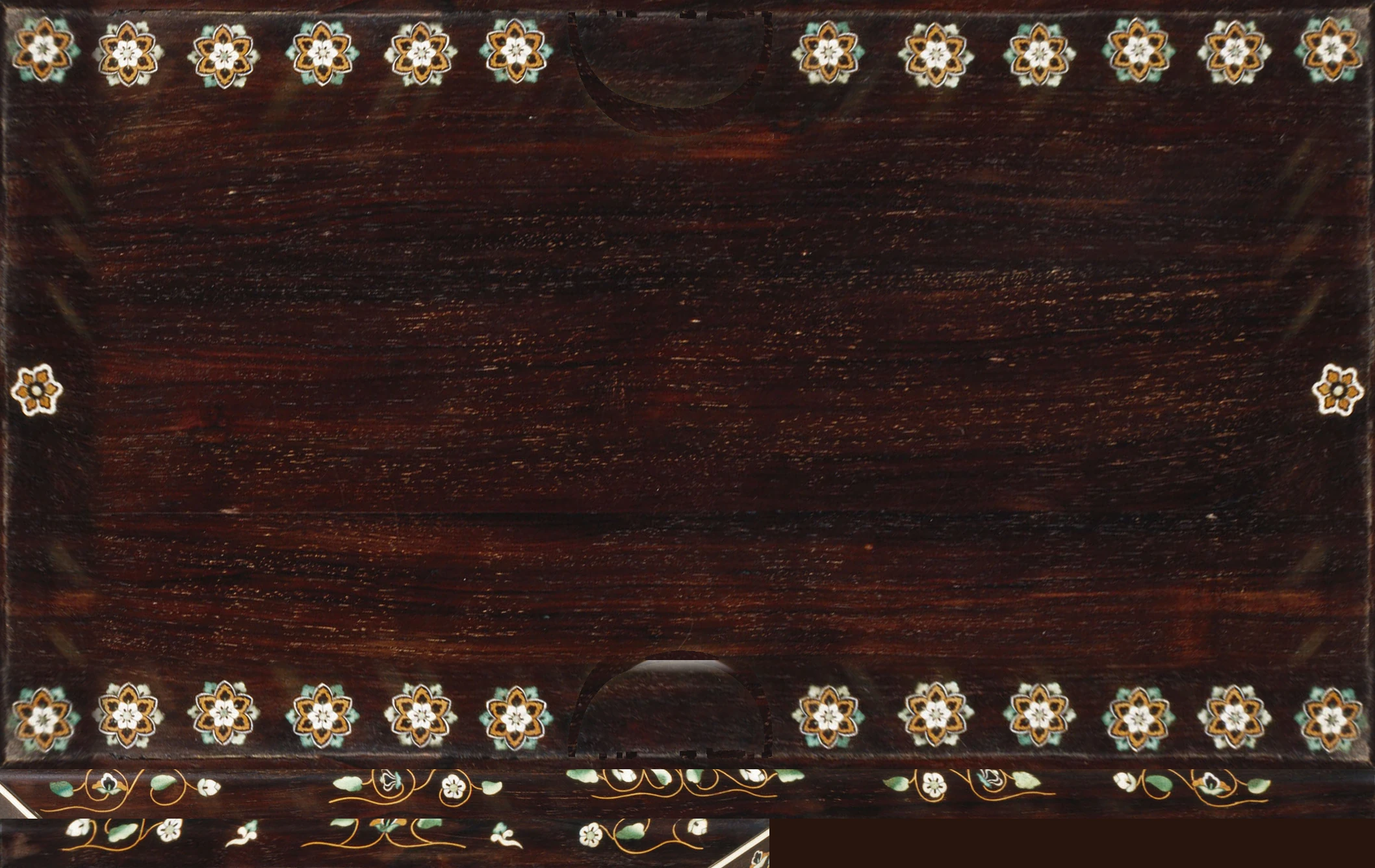
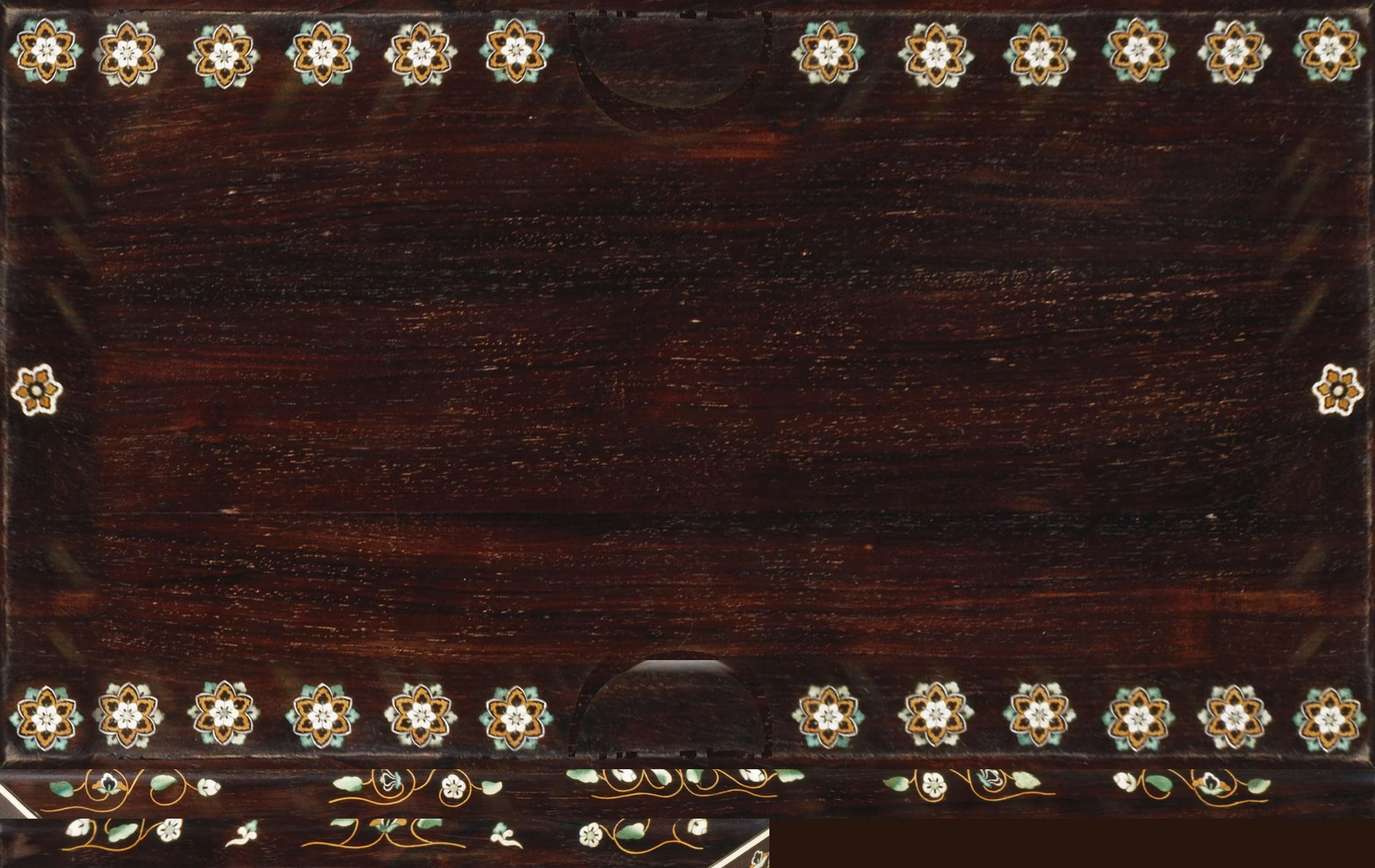
博物館：双六局の盤面の四隅の花の歪みを直す
写真を正面に直した際に歪んでぼけていた四隅の花を、同じ列の同じ種類の花で置き換え（位置は元のまま）。

Claude-Session: https://claude.ai/code/session_019p8B6V1SGvFhMnDpobjUww

diff --git a/atlas/museum/ex/sugoroku.js b/atlas/museum/ex/sugoroku.js
@@ -20,6 +20,9 @@
          the opposite sides carry the same pictures;
        sugoroku-top.webp — the field (52.9 × 29.6 cm) above the inner faces of the far long wall and the far short wall; the strip of
          the field hidden behind the near walls is the far strip mirrored, and the half-moons (raised pieces here) are taken out.
+         2026-11-23: the four corner flowers came out of the straightening sheared and blurred (they lie under the walls' shadow, at the
+         photograph's steepest angle); each is replaced by a clean flower of the same kind from the same row (the 4th from that end),
+         at the corner flower's own place.
      The openings are traced on the straightened sides, in cm from the side's top left corner, starting where the rail's two hanging
      lobes meet (the long side's second opening is the first mirrored). */
   const HERE = (document.currentScript && document.currentScript.src) || location.href; let SIDE = null, TOP = null;
@@ -27,7 +30,7 @@
   const OPEN_S = [[15.4, 3.62], [15.6, 3.81], [16.11, 4.38], [17.37, 4.75], [18.63, 4.72], [19.89, 4.56], [21.15, 4.31], [22.42, 4.1], [23.68, 4], [24.94, 3.97], [26.2, 4.19], [26.86, 4.56], [27.47, 5.19], [27.97, 6.12], [28.27, 7.25], [28.41, 8.5], [28.41, 9.5], [28.27, 10.5], [28.07, 11.5], [27.72, 12.5], [27.26, 13.37], [26.71, 14.12], [25.95, 14.69], [25.04, 15.4], [24.18, 15.85], [20.2, 15.85], [15.45, 15.85], [10.6, 15.85], [6.56, 15.85], [5.65, 15.5], [4.95, 14.87], [4.14, 14], [3.53, 13], [3.08, 12], [2.78, 11], [2.63, 10], [2.57, 9], [2.63, 8], [2.78, 6.87], [3.13, 5.75], [3.53, 5], [4.04, 4.5], [4.54, 4.19], [5.05, 3.97], [6.06, 3.79], [7.07, 3.75], [8.08, 3.81], [9.09, 3.94], [10.1, 4.12], [11.11, 4.31], [12.12, 4.44], [13.13, 4.5], [14.14, 4.38], [14.64, 4.12], [15.05, 3.75]];
   (window.AtlasEx = window.AtlasEx || {}).sugoroku = {
     ready: () => { const get = (f, set) => new Promise(res => { const im = new Image(); im.onload = () => { set(im); res(); }; im.onerror = () => res(); im.src = new URL('../../../images/atlas/ex/' + f, HERE).href; setTimeout(res, 8000); });
-      return Promise.all([get('sugoroku-sides.webp?v=2', im => { SIDE = im; }), get('sugoroku-top.webp?v=2', im => { TOP = im; })]); },
+      return Promise.all([get('sugoroku-sides.webp?v=2', im => { SIDE = im; }), get('sugoroku-top.webp?v=3', im => { TOP = im; })]); },
     build(TT, X, K) {
       const G = new TT.Group();
       const L = 54.3, W = 31.0, H = 16.7, RAIL = .8, BASE = 13.3, LIN = .9, EDGE = H - BASE, RIM = 1.9, RT = .7;   // (RIM: the wall round the field stands upright, about 1.9 high — the overall photograph)   // LIN: the strip of rosettes at the top of the base

diff --git a/atlas/museum.js b/atlas/museum.js
@@ -32,7 +32,7 @@
   const ROOMS = [
     { id: 'map', ready: () => !!window.AtlasMap, render: (el, c) => AtlasMap.render(el, c) },
     { id: 'tree', src: ['museum/tree.js?v=3'], ready: () => !!window.AtlasTree, render: (el, c) => AtlasTree.render(el, c) },
-    { id: 'gallery', src: ['museum/gallery.js?v=122'], ready: () => !!window.AtlasGallery, render: (el, c) => AtlasGallery.render(el, c) },
+    { id: 'gallery', src: ['museum/gallery.js?v=123'], ready: () => !!window.AtlasGallery, render: (el, c) => AtlasGallery.render(el, c) },
   ];
   const KEY = 'atlas-museum-room';
   const esc = s => String(s == null ? '' : s).replace(/[&<>"]/g, c => ({ '&': '&amp;', '<': '&lt;', '>': '&gt;', '"': '&quot;' }[c]));

diff --git a/atlas/index.html b/atlas/index.html
@@ -2563,7 +2563,7 @@ window.AtlasRgdTimer = function (btn, ms, alive) {
 <link rel="stylesheet" href="worldmap.css?v=19">
 <link rel="stylesheet" href="museum.css?v=29">
 <script src="worldmap.js?v=40"></script>
-<script src="museum.js?v=123"></script>
+<script src="museum.js?v=124"></script>
 <script src="npc/npc.js?v=47"></script>
 <script src="avtalk.js?v=4"></script>
 <script>/* Page states as classes on <html> (2026-11-21) — html.cov-on: the 3D view / Historia / a sheet / a level sheet is open;

diff --git a/atlas/museum/gallery.js b/atlas/museum/gallery.js
@@ -10,7 +10,7 @@
    (a turn, a zoom, the slow turntable) and never while the window is in the background. */
 (function () {
   'use strict';
-  const V = 122;
+  const V = 123;
   /* ---------- the pieces: id, the game it belongs to, its scale (cm per model unit), the camera's start, the details ----------
      lock: { game, ach } → open after that many achievements of the game. src: the files the piece needs (besides ex/<id>.js) */
   const EX = [

diff --git a/claude/museum-spec.md b/claude/museum-spec.md
@@ -342,3 +342,5 @@
 
 - 対局中とルールコース中（`.exv-play`）は PC でも右の解説欄をしまい、展示ケースが画面いっぱいに（閉じる×は残す）。終わると戻る。
 - PC（幅900px以上でタッチが主でない）では「向き」ボタンを出さず、長い盤は常に横向き（保存された縦向きも使わない）。
+
+- 2026-11-23：双六局の盤面（sugoroku-top.webp）の四隅の花が、写真を正面に直す際に歪んでぼけていた（壁の影の下・最も斜めの位置）。同じ列の同じ種類の花（端から4つ目）で置き換え、位置は元のまま。
